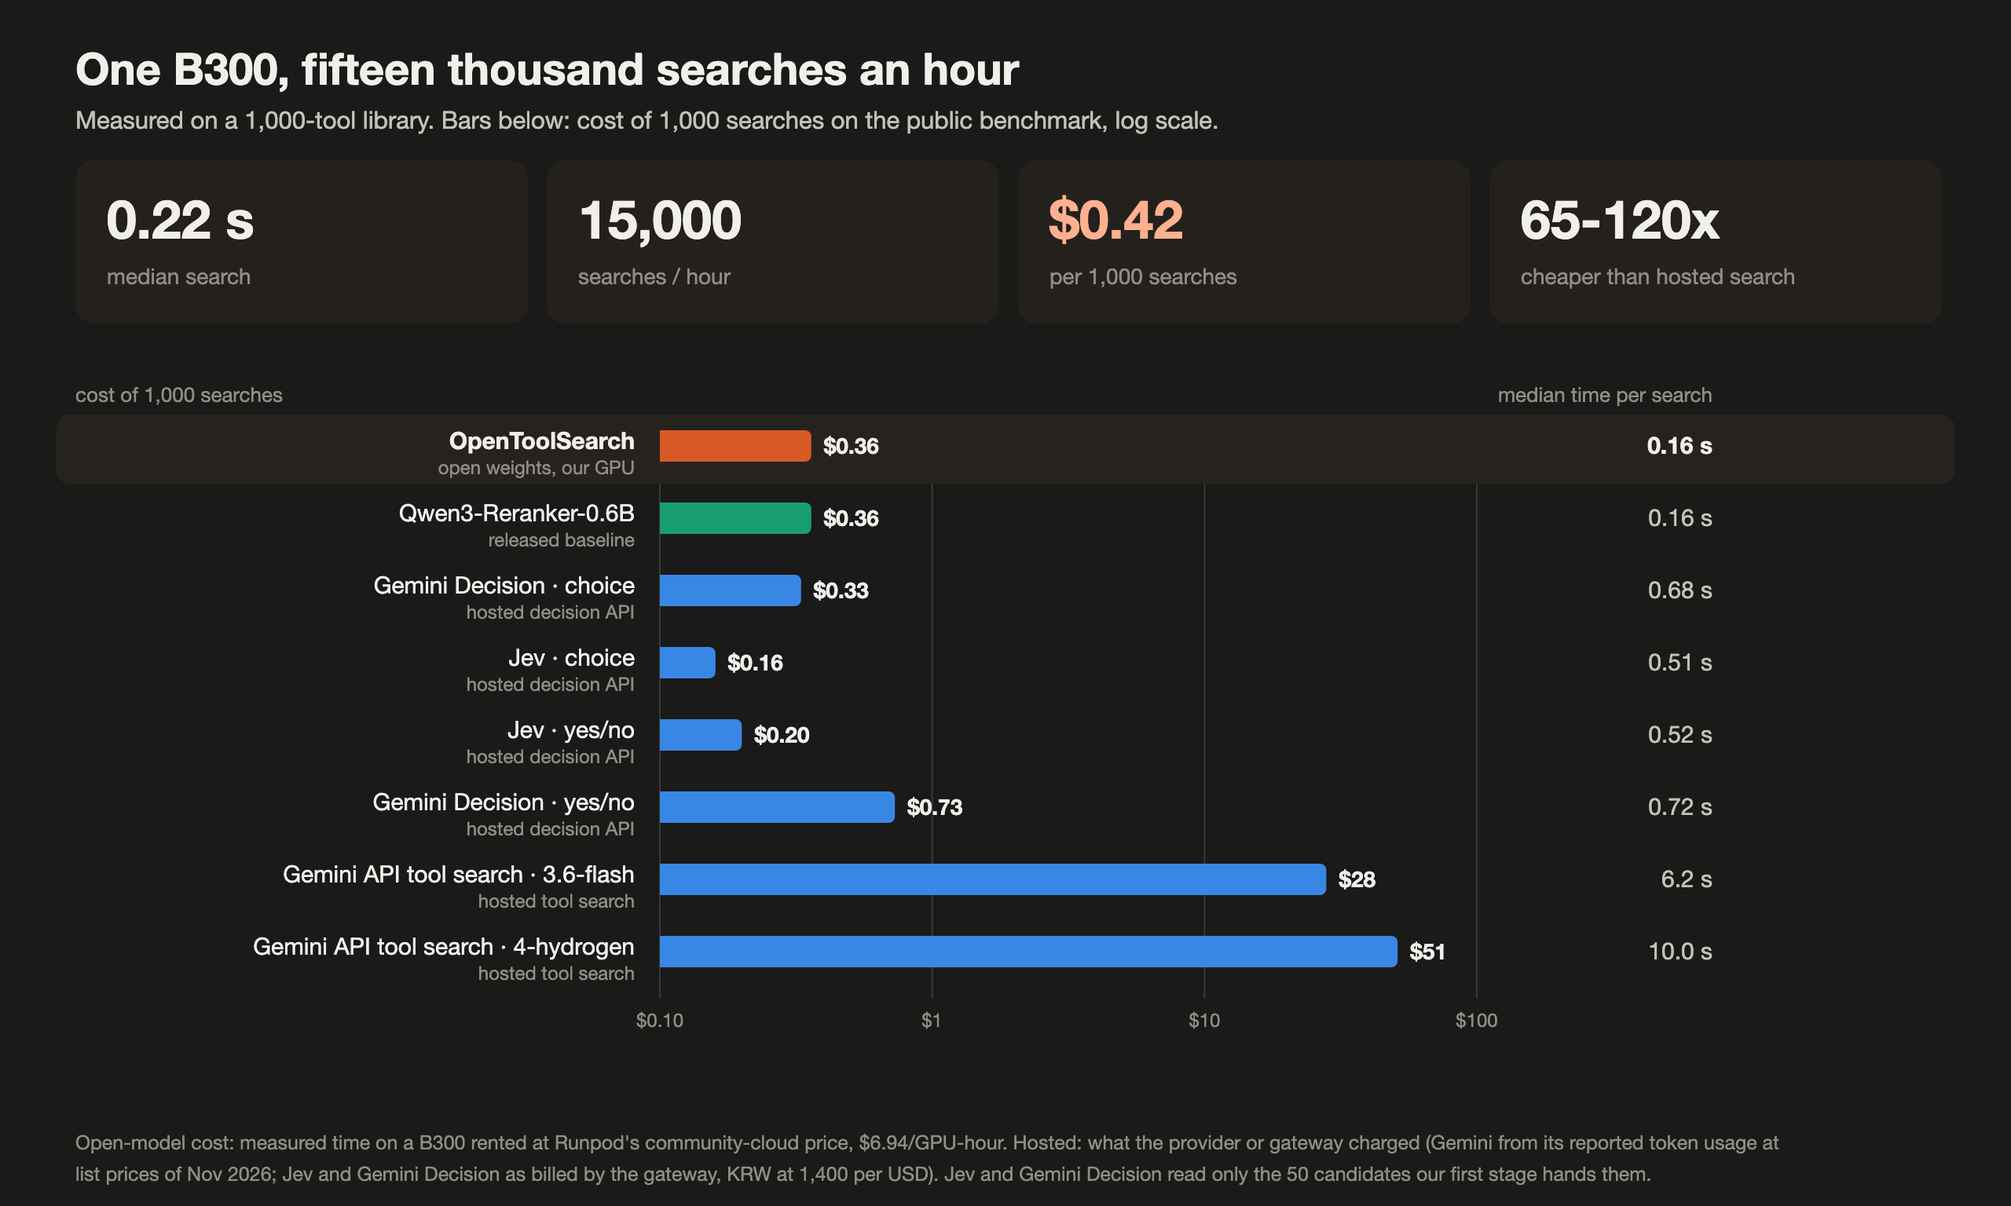
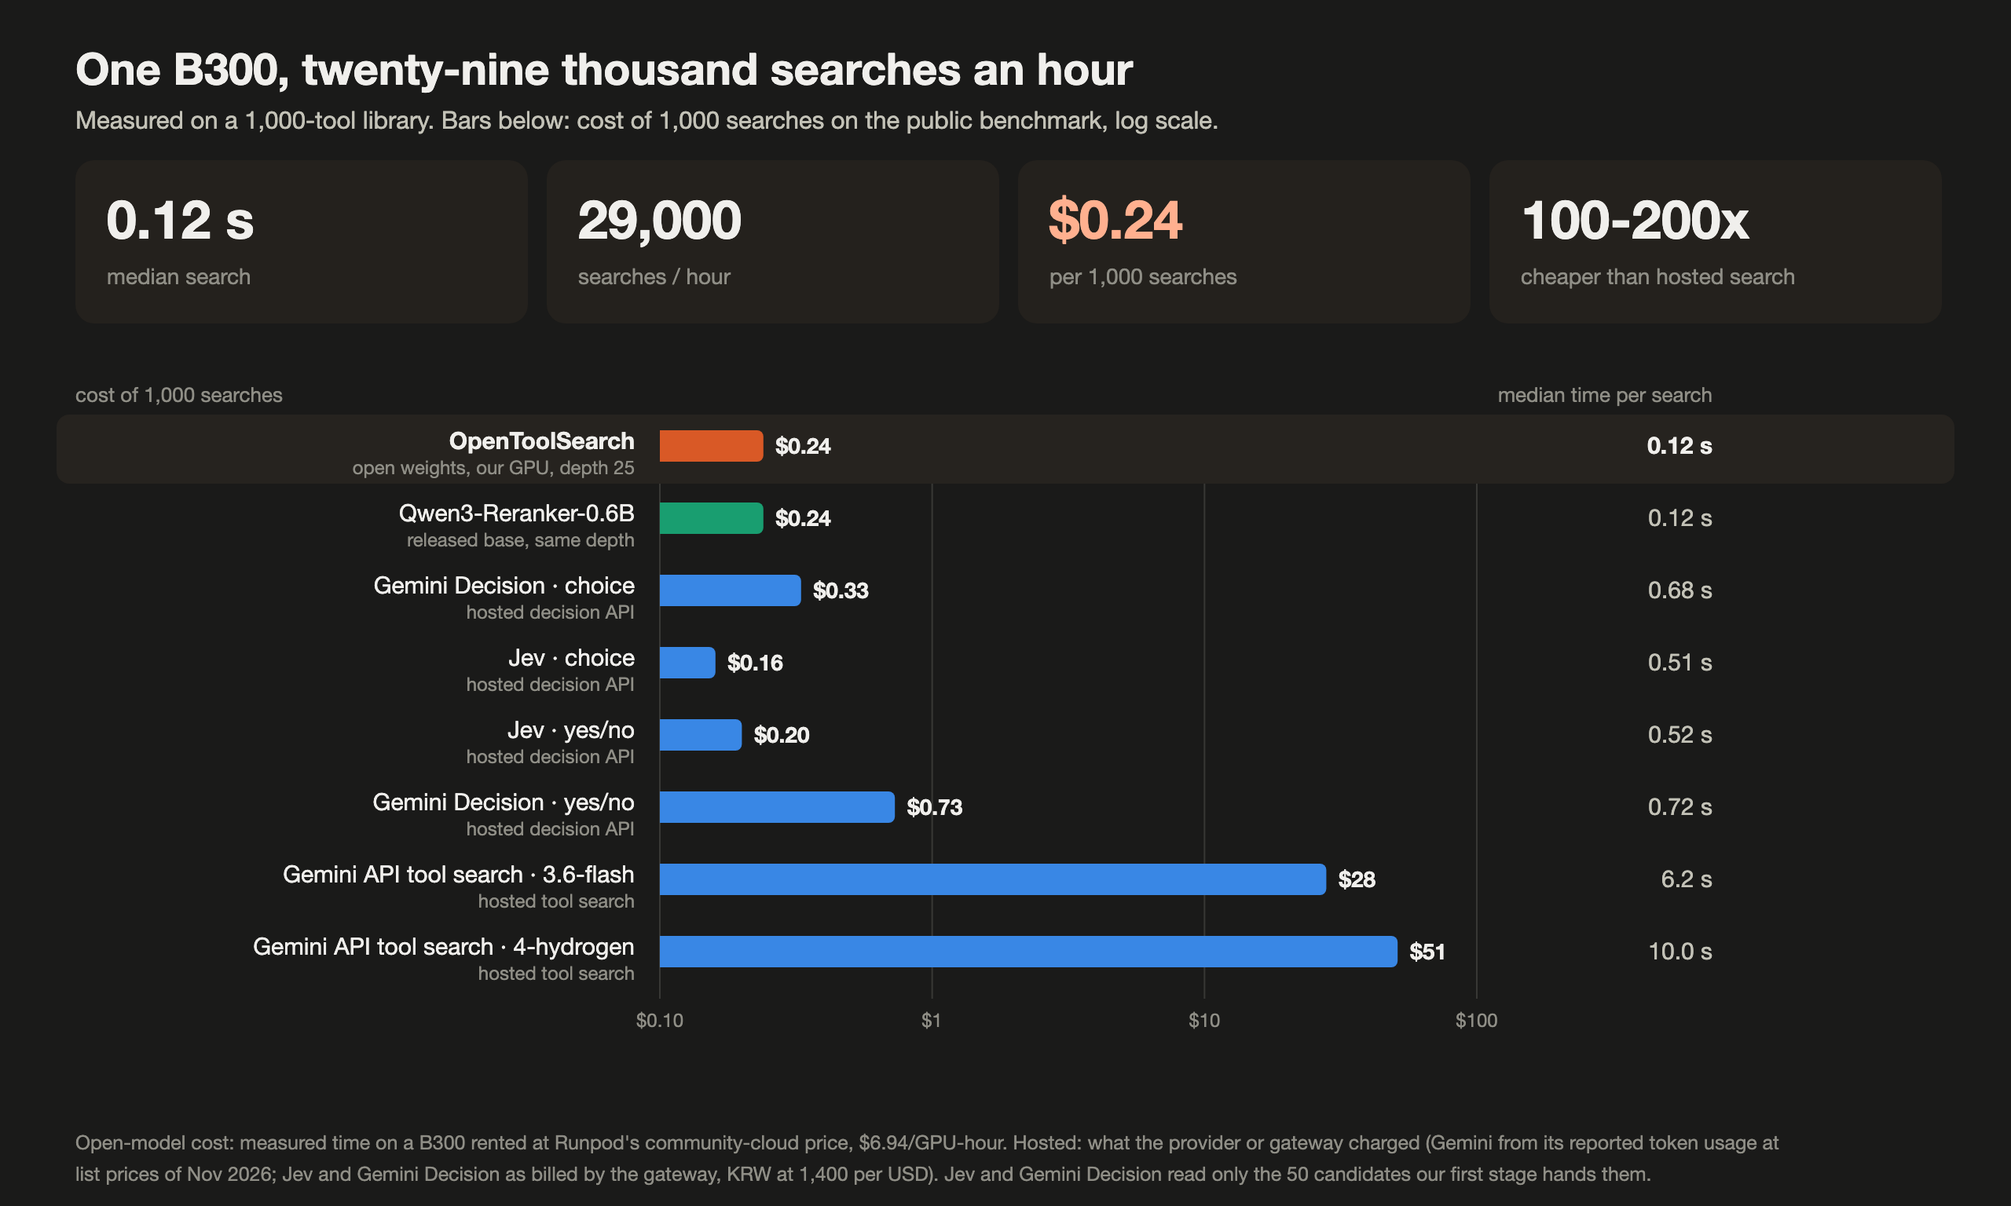
Default config: rerank depth 25, fusion 0.5 (chosen on two benchmarks); docs, figures and library defaults updated

diff --git a/scripts/make_scale_figure.py b/scripts/make_scale_figure.py
@@ -25,26 +25,26 @@ body += t(x0 + w / 2, y0 + h + 44, "searches an hour on one B300 (log scale)", 1
 body += t(48, y0 - 6, "public-benchmark nDCG@10", 12.5, MUTED)
 body += f'<rect x="860" y="130" width="380" height="520" rx="12" fill="#22201d"/>'
 body += t(884, 164, "Rerank depth", 15, INK, weight=700) + t(884, 190, "candidates scored per search", 12.5, MUTED)
-rows = [(d, lab) for d, lab in ((0, "none (embedder only)"), (5, "5"), (10, "10"), (25, "25"), (50, "50 (default)"))]
+rows = [(d, lab) for d, lab in ((0, "none (embedder only)"), (10, "10"), (25, "25 (default)"), (50, "50"))]
 body += t(904, 222, "nDCG@10 (public)", 12, MUTED) + t(1010, 222, "per search", 12, MUTED) + t(1100, 222, "/ hour", 12, MUTED) + t(1190, 222, "/ 1,000", 12, MUTED)
 for i, (d, lab) in enumerate(rows):
     r = D["embedder_only"] if d == 0 else next(x for x in D["rows"] if x["rerank_depth"] == d)
     yy = 250 + i * 70
     body += f'<rect x="884" y="{yy - 18}" width="12" height="12" rx="3" fill="{HUE[str(d)]}"/>'
-    body += t(904, yy - 6, lab, 15, INK, weight=700 if d == 50 else 400)
+    body += t(904, yy - 6, lab, 15, INK, weight=700 if d == 25 else 400)
     body += t(904, yy + 14, f'{r["quality_public"]:.1f}', 13, INK2) + t(1010, yy + 14, f'{r["ms_per_search"]:.0f} ms', 13, INK2) + t(1100, yy + 14, f'{r["searches_per_hour"]:,}', 13, INK2) + t(1190, yy + 14, f'${r["usd_per_1k_our_pod"]:.3f}', 13, INK2)
 for p in pts:
     cx, cy = X(p["searches_per_hour"]), Y(p["quality_public"])
     d = str(p["rerank_depth"])
     body += f'<circle cx="{cx:.1f}" cy="{cy:.1f}" r="12" fill="{HUE[d]}" stroke="{BG}" stroke-width="3"/>'
-labels = {0: (-16, 34, "end"), 5: (18, -10, "start"), 10: (18, 8, "start"), 25: (18, 34, "start"), 50: (-20, -16, "end")}
+labels = {0: (-16, 34, "end"), 5: (18, -10, "start"), 10: (18, -30, "start"), 25: (18, 34, "start"), 50: (-20, -16, "end")}
 for p in pts:
     cx, cy = X(p["searches_per_hour"]), Y(p["quality_public"])
     dx, dy, anc = labels[p["rerank_depth"]]
-    lab = {0: "embedder only", 5: "rerank 5", 10: "rerank 10", 25: "rerank 25", 50: "rerank 50 (default)"}[p["rerank_depth"]]
-    body += t(cx + dx, cy + dy, lab, 14.5, INK, anc, 700 if p["rerank_depth"] == 50 else 500)
+    lab = {0: "embedder only", 5: "rerank 5", 10: "rerank 10", 25: "rerank 25 (default)", 50: "rerank 50"}[p["rerank_depth"]]
+    body += t(cx + dx, cy + dy, lab, 14.5, INK, anc, 700 if p["rerank_depth"] == 25 else 500)
     body += t(cx + dx, cy + dy + 18, f'{p["searches_per_hour"]:,}/h · {p["ms_per_search"]:.0f} ms', 12.5, MUTED, anc)
-body += t(48, H - 40, "Depth 25 loses 0.2 nDCG@10 against 50 and doubles throughput to 29,000 searches an hour. Measurements: 200 requests, waves of 8, one B300; quality recomputed from the stored per-question scores.", 12.5, MUTED)
+body += t(48, H - 40, "Depth 25 is the default: 0.2 nDCG@10 below depth 50, double the throughput at 29,000 searches an hour. Measurements: 200 requests, waves of 8, one B300; quality recomputed from the stored per-question scores.", 12.5, MUTED)
 svg = f'<svg xmlns="http://www.w3.org/2000/svg" width="{W}" height="{H}" viewBox="0 0 {W} {H}" font-family="{FONT}"><rect width="{W}" height="{H}" fill="{BG}"/>{body}</svg>'
 html = os.path.join(ROOT, "data", "img", "scale.html"); open(html, "w").write(f'<!doctype html><html><body style="margin:0;background:{BG}">{svg}</body></html>')
 out = os.path.join(ROOT, "assets", "scale.png")

diff --git a/scripts/make_economics_figure.py b/scripts/make_economics_figure.py
@@ -9,8 +9,8 @@ COL = {"ots": "#d95926", "api": "#3987e5", "base": "#199e70"}
 FONT = "-apple-system,SF Pro Text,Helvetica Neue,Arial,sans-serif"
 CHROME = "/Applications/Google Chrome.app/Contents/MacOS/Google Chrome"
 usd = lambda v: "$6.94" if v == 6.94 else ""
-rows = [("OpenToolSearch", "ots", 0.36, "0.16 s", "open weights, our GPU"),
-        ("Qwen3-Reranker-0.6B", "base", 0.36, "0.16 s", "released baseline"),
+rows = [("OpenToolSearch", "ots", 0.24, "0.12 s", "open weights, our GPU, depth 25"),
+        ("Qwen3-Reranker-0.6B", "base", 0.24, "0.12 s", "released base, same depth"),
         ("Gemini Decision · choice", "api", P["Gemini Decision (single choice)"]["usd_per_1k"], f'{P["Gemini Decision (single choice)"]["latency_p50"]:.2f} s', "hosted decision API"),
         ("Jev · choice", "api", P["Jev (single choice)"]["usd_per_1k"], f'{P["Jev (single choice)"]["latency_p50"]:.2f} s', "hosted decision API"),
         ("Jev · yes/no", "api", P["Jev (yes/no per tool)"]["usd_per_1k"], f'{P["Jev (yes/no per tool)"]["latency_p50"]:.2f} s', "hosted decision API"),
@@ -20,9 +20,9 @@ rows = [("OpenToolSearch", "ots", 0.36, "0.16 s", "open weights, our GPU"),
 W, H = 1280, 768
 t = lambda x, y, s, size=14, fill=INK2, anchor="start", weight=400: \
     f'<text x="{x:.1f}" y="{y:.1f}" fill="{fill}" font-size="{size}" text-anchor="{anchor}" font-weight="{weight}">{s}</text>'
-body = t(48, 54, "One B300, fifteen thousand searches an hour", 28, INK, weight=700)
+body = t(48, 54, "One B300, twenty-nine thousand searches an hour", 28, INK, weight=700)
 body += t(48, 82, "Measured on a 1,000-tool library. Bars below: cost of 1,000 searches on the public benchmark, log scale.", 15.5, INK2)
-hero = [("0.22 s", "median search"), ("15,000", "searches / hour"), ("$0.42", "per 1,000 searches"), ("65-120x", "cheaper than hosted search")]
+hero = [("0.12 s", "median search"), ("29,000", "searches / hour"), ("$0.24", "per 1,000 searches"), ("100-200x", "cheaper than hosted search")]
 hx = 48
 for big, small in hero:
     body += f'<rect x="{hx}" y="102" width="288" height="104" rx="12" fill="#24211d"/>'

diff --git a/opentoolsearch/index.py b/opentoolsearch/index.py
@@ -50,12 +50,14 @@ class ToolIndex:
               prompts (e.g. Nemotron-3-Embed, opentoolsearch-embed) get them applied; others get
               the "Instruct: ...\nQuery: ..." format.
     reranker  optional path/name of a opentoolsearch reranker (Qwen3-Reranker format). When set,
-              the top `rerank_top` hits are re-scored and the two scores are fused.
+              the top `rerank_top` hits (default 25) are re-scored and the two scores are fused
+              with weight `fuse` (default 0.5). Depth and fusion were chosen on two benchmarks:
+              depth 25 is 0.2 nDCG@10 below 50 on ToolRet per-source and twice as fast.
     """
 
     def __init__(self, model: str = DEFAULT_MODEL, reranker: Optional[str] = None,
                  device: Optional[str] = None, instruction: str = DEFAULT_INSTRUCTION,
-                 max_doc_tokens: int = 1024, rerank_top: int = 30, fuse: float = 1.0, encoder=None):
+                 max_doc_tokens: int = 1024, rerank_top: int = 25, fuse: float = 0.5, encoder=None):
         if encoder is None:
             from sentence_transformers import SentenceTransformer
             encoder = SentenceTransformer(model, device=device)

diff --git a/README.md b/README.md
@@ -17,9 +17,9 @@ tools - function declarations, MCP servers - and let it load only the few a requ
 Model APIs now ship this as a hosted feature. OpenToolSearch is the same idea with open
 weights that you run yourself, next to any model that can call a function:
 
-- **15,000 searches an hour on one GPU at full quality** - 29,000 at rerank depth 25 for 0.2
-  nDCG points less, 75,000 at depth 10 - at **$0.42-0.48 per 1,000 searches**,
-  60 to 120 times cheaper than hosted tool search (Gemini API tool search: $28-51 per 1,000).
+- **29,000 searches an hour on one GPU** - 75,000 on the faster setting, two million on the
+  embedder alone - at **$0.24 per 1,000 searches**, 100 to 200 times cheaper than hosted tool
+  search (Gemini API tool search: $28-51 per 1,000) and about 0.12 s per search.
 - **Open weights, your hardware.** No per-search fee, and the tool library never leaves your
   machines. One B300 or an H100 is enough.
 - **Competitive, not best, on quality.** Between Gemini API tool search's flash and hydrogen
@@ -32,7 +32,7 @@ weights that you run yourself, next to any model that can call a function:
 
 Built by [AI3 Inc.](https://ai3.kr) · Apache-2.0
 
-## One GPU, fifteen thousand searches an hour - or a hundred thousand
+## One GPU, twenty-nine thousand searches an hour
 
 ![How fast can one GPU search](assets/scale.png)
 
@@ -41,20 +41,21 @@ B300 over a 1,000-tool library:
 
 | Candidates reranked | nDCG@10 (public bench) | Per search | Searches an hour | $ per 1,000 (our pod) |
 |---|---|---|---|---|
-| none - embedder only | 62.9 | 1.7 ms | **2,088,000** | $0.003 |
-| 5 | 60.9 | 29 ms | 123,500 | $0.06 |
+| none - embedder only | 62.9 | 1.7 ms | 2,088,000 | $0.003 |
 | 10 | 67.1 | 48 ms | 75,600 | $0.09 |
-| 25 | 70.1 | 124 ms | 29,000 | $0.24 |
-| 50 (our default) | **70.3** | 241 ms | 14,900 | $0.48 |
+| **25 (our default)** | **70.1** | 124 ms | **29,000** | **$0.24** |
+| 50 | 70.3 | 241 ms | 14,900 | $0.48 |
 
-- **One B300 does 15,000 searches an hour at full quality, 29,000 at rerank depth 25 for 0.2
-  points less, and 75,000 if you rerank only the top 10.**
-- A big consumer app does not need that many: at 20 million chat turns a day and 0.3 tool
-  searches each, that is about 2,500 searches a second - roughly 200 B300s at full quality, or
-  20 for the embedder-only path that is still better than Gemini API tool search's 67.0.
-- **Against hosted tool search, cost is not close:** $0.48 per 1,000 at full quality, $0.003 on
-  the embedder, against Gemini API tool search's $28-51. On Runpod's community-cloud price
-  ($6.94/h) it is $0.41.
+- **The default is rerank depth 25**: two and a half times the throughput of depth 50 for 0.2
+  nDCG@10 - inside the noise of this benchmark. Depth 10 is another 2.6 times faster for 3
+  points.
+- **One B300 does 29,000 searches an hour at full quality, 75,000 at depth 10, two million on the
+  embedder alone.** A consumer app at 20 million turns a day with 0.3 tool searches each needs
+  about 2,500 searches a second - roughly 100 B300s at the default depth.
+- **Cost:** $0.24 per 1,000 searches at the default depth, $0.42-0.48 at depth 50, against
+  Gemini API tool search's $28-51.
+- The fusion weight that combines the two scores is 0.5 in the default (70.45 public / 86.77
+  own set, against 70.08 / 87.43 at 0.25); the difference is inside the noise either way.
 - Hosted decision models (Jev, Gemini Decision) are cheap and fast too, but they only rank the
   candidates we hand them and return a list, not a service next to your data.
 
@@ -91,28 +92,30 @@ picked with our own embedder, and the published weights saw training rows from t
 |---|---|---|---|---|---|---|
 | Gemini Decision — single choice | hosted API | 78.2 | 87.2 | 91.2 | $0.33 | 0.68 s |
 | Jev — single choice | hosted API | 77.3 | 85.4 | 89.1 | $0.16 | 0.51 s |
-| Gemini API tool search — gemini-4-hydrogen | hosted API | 73.5 | 79.4 | 88.3 | $51 | 10.0 s |
+| Gemini API tool search — gemini-4-hydrogen | hosted API | 73.5 | 79.4 | 88.3 | $51.20 | 10.03 s |
 | Gemini Decision — yes/no per tool | hosted API | 71.0 | 85.4 | 85.2 | $0.73 | 0.72 s |
 | Jev — yes/no per tool | hosted API | 70.9 | 84.8 | 86.1 | $0.20 | 0.52 s |
-| **OpenToolSearch** | **open weights** | **70.3** | 82.4 | 87.9 | $0.36 | 0.16 s |
-| Qwen3-Reranker-0.6B as released | open baseline | 69.9 | 81.7 | 87.3 | $0.36 | 0.16 s |
-| Gemini API tool search — gemini-3.6-flash | hosted API | 67.0 | 71.6 | 88.2 | $28 | 6.24 s |
+| **OpenToolSearch — default (depth 25)** | open weights | **70.5** | 82.1 | 86.8 | $0.24 | 0.12 s |
+| OpenToolSearch — depth 50 | open weights | 70.3 | 82.4 | 87.9 | $0.47 | 0.22 s |
+| Qwen3-Reranker-0.6B as released | open baseline | 69.9 | 81.7 | 87.3 | $0.47 | 0.22 s |
+| Gemini API tool search — gemini-3.6-flash | hosted API | 67.0 | 71.6 | 88.2 | $28.01 | 6.24 s |
 | Nemotron-3-Embed-1B alone | open baseline | 62.9 | 76.6 | 78.4 | — | — |
 
 What the numbers say, plainly:
 
-- **Quality: in the middle.** On the public benchmark OpenToolSearch scores 70.3 - above
-  Gemini API tool search with gemini-3.6-flash (67.0), below it with gemini-4-hydrogen (73.5),
-  and 7-8 points below Jev and Gemini Decision asked to pick one tool (77.3, 78.2). On our own
-  set the two decision models lead (91.2, 89.1) and OpenToolSearch sits at 87.9.
-- **Speed: first, by a wide margin.** 0.16 s per search, against 0.5-0.7 s for the hosted
-  decision models and 6-10 s for Gemini API tool search.
-- **Cost: about like the hosted decision models, a small fraction of Gemini API tool search** -
-  $0.36 of GPU time per 1,000 searches against $28-51. Gemini has the model read the whole
-  catalogue on every search.
-- **Its fine-tuning adds little here.** The released Qwen3 reranker scores 69.9 on the same
-  first stage. The gain shows on the full ToolRet corpus below (51.9 to 56.0 on its own),
-  where an instruction accompanies each question.
+- **Default settings are depth 25 and fusion 0.5**: 70.5 on the public benchmark (depth 50
+  with the same fusion: 70.8) at 29,000 searches an hour and $0.24 per 1,000 - two and a half
+  times the throughput and half the cost of depth 50 for about 0.3 nDCG points, inside the
+  noise of a 769-question test.
+- **Quality: in the middle.** OpenToolSearch at its default (70.5) sits above Gemini API tool
+  search with gemini-3.6-flash (67.0), just below it with gemini-4-hydrogen (73.5), and 7 points
+  below Jev and Gemini Decision asked to pick one tool (77.3, 78.2).
+- **Speed and cost: first, by a wide margin.** 0.12 s per search and $0.24 per 1,000, against
+  0.5-0.7 s / $0.16-0.73 for the hosted decision models and 6-10 s / $28-51 for Gemini API tool
+  search.
+- **Fine-tuning adds little here.** The released Qwen3 reranker scores 69.9 on the same first
+  stage at the same depth. The gain shows on the full ToolRet corpus below (51.9 to 56.0 on its
+  own), where an instruction accompanies each question.
 - **It is the only row you can run yourself** - open weights, no per-search fee, and the tool
   library never leaves your machines.
 
@@ -232,6 +235,7 @@ from opentoolsearch import ToolIndex
 index = ToolIndex(model="nvidia/Nemotron-3-Embed-1B-BF16",
                   reranker="ai3inc/opentoolsearch-rerank-0.6b")       # reranker is optional
 index.add(tools)                       # list of tool / function declarations (dicts)
+# defaults: rerank_top=25, fuse=0.5  (depth 25 ≈ depth 50 in quality, twice the throughput)
 
 hits = index.search("refund the customer's last order", k=5)
 for h in hits:

diff --git a/hf/opentoolsearch-rerank-0.6b/README.md b/hf/opentoolsearch-rerank-0.6b/README.md
@@ -93,8 +93,9 @@ Per category at top 100: web 52.01, code 61.09, customized 62.01.
 ![How fast can one GPU search](https://raw.githubusercontent.com/ai3inc/opentoolsearch/main/assets/scale.png)
 
 Rerank depth is the dial. On one B300 over 1,000 tools: depth 50 gives 70.3 nDCG@10 at 14,900
-searches an hour and $0.48 per 1,000; depth 25 gives 70.1 at 29,000 and $0.24; depth 10 gives
-67.1 at 75,600 and $0.09; the embedder alone gives 62.9 at 2.1 million an hour for $0.003.
+searches an hour and $0.48 per 1,000; **depth 25 is the library default** - 70.1 at 29,000 an
+hour and $0.24; depth 10 gives 67.1 at 75,600 and $0.09; the embedder alone gives 62.9 at 2.1
+million an hour for $0.003.
 A large consumer app with 20 million turns a day and 0.3 tool searches each needs about 2,500
 searches a second, which is roughly 200 GPUs at full quality.
 
@@ -113,12 +114,13 @@ model is the fastest of them all by a wide margin.
 |---|---|---|---|---|---|---|
 | Gemini Decision — single choice | hosted API | 78.2 | 87.2 | 91.2 | $0.33 | 0.68 s |
 | Jev — single choice | hosted API | 77.3 | 85.4 | 89.1 | $0.16 | 0.51 s |
-| Gemini API tool search — gemini-4-hydrogen | hosted API | 73.5 | 79.4 | 88.3 | $51 | 10.0 s |
+| Gemini API tool search — gemini-4-hydrogen | hosted API | 73.5 | 79.4 | 88.3 | $51.20 | 10.03 s |
 | Gemini Decision — yes/no per tool | hosted API | 71.0 | 85.4 | 85.2 | $0.73 | 0.72 s |
 | Jev — yes/no per tool | hosted API | 70.9 | 84.8 | 86.1 | $0.20 | 0.52 s |
-| **OpenToolSearch** | **open weights** | **70.3** | 82.4 | 87.9 | $0.36 | 0.16 s |
-| Qwen3-Reranker-0.6B as released | open baseline | 69.9 | 81.7 | 87.3 | $0.36 | 0.16 s |
-| Gemini API tool search — gemini-3.6-flash | hosted API | 67.0 | 71.6 | 88.2 | $28 | 6.24 s |
+| **OpenToolSearch — default (depth 25)** | open weights | **70.5** | 82.1 | 86.8 | $0.24 | 0.12 s |
+| OpenToolSearch — depth 50 | open weights | 70.3 | 82.4 | 87.9 | $0.47 | 0.22 s |
+| Qwen3-Reranker-0.6B as released | open baseline | 69.9 | 81.7 | 87.3 | $0.47 | 0.22 s |
+| Gemini API tool search — gemini-3.6-flash | hosted API | 67.0 | 71.6 | 88.2 | $28.01 | 6.24 s |
 | Nemotron-3-Embed-1B alone | open baseline | 62.9 | 76.6 | 78.4 | — | — |
 
 

diff --git a/hf/opentoolsearch-rerank-0.6b/LEDGER.md b/hf/opentoolsearch-rerank-0.6b/LEDGER.md
@@ -244,3 +244,18 @@ per-question scores at fusion weight 0.25; throughput measured.
 Time is linear in rerank depth: the cross-encoder runs once per candidate and nothing else
 costs measurable time. Depth 25 is the sweet spot - 0.2 nDCG@10 below 50 and twice the
 throughput. `results/scale_curve.json`, `results/quality_vs_depth.json`, `scripts/v3_scale_curve.py`.
+
+# Default configuration chosen (2026-11-21)
+
+Fusion weight x rerank depth, nDCG@10 (stored per-question scores, both benchmarks):
+
+| Depth | Public w=0 / .25 / .5 / 1 | Own set w=0 / .25 / .5 / 1 | Searches/hour | $/1,000 |
+|---|---|---|---|---|
+| 10 | 66.91 / 67.11 / 67.14 / 66.51 | 85.18 / 84.50 / 84.27 / 82.38 | 75,623 | 0.094 |
+| 25 | 69.24 / 70.08 / 70.45 / 69.55 | 87.86 / 87.43 / 86.77 / 84.39 | 29,032 | 0.244 |
+| 50 | 68.94 / 70.26 / 70.78 / 69.88 | 87.65 / 87.93 / 87.23 / 85.29 | 14,917 | 0.475 |
+
+Chosen: **depth 25, fusion 0.5** - the public benchmark's best value at that depth (70.45), the
+own set loses 0.7 (87.43 -> 86.77), and the throughput doubles. Depth 25 with fusion 0.5 is now
+the library default (`ToolIndex(rerank_top=25, fuse=0.5)`); the evaluation scripts keep the
+benchmark protocols (depth 50 / top 100) they were run with. `results/default_config.json`.

diff --git a/results/LEDGER.md b/results/LEDGER.md
@@ -244,3 +244,18 @@ per-question scores at fusion weight 0.25; throughput measured.
 Time is linear in rerank depth: the cross-encoder runs once per candidate and nothing else
 costs measurable time. Depth 25 is the sweet spot - 0.2 nDCG@10 below 50 and twice the
 throughput. `results/scale_curve.json`, `results/quality_vs_depth.json`, `scripts/v3_scale_curve.py`.
+
+# Default configuration chosen (2026-11-21)
+
+Fusion weight x rerank depth, nDCG@10 (stored per-question scores, both benchmarks):
+
+| Depth | Public w=0 / .25 / .5 / 1 | Own set w=0 / .25 / .5 / 1 | Searches/hour | $/1,000 |
+|---|---|---|---|---|
+| 10 | 66.91 / 67.11 / 67.14 / 66.51 | 85.18 / 84.50 / 84.27 / 82.38 | 75,623 | 0.094 |
+| 25 | 69.24 / 70.08 / 70.45 / 69.55 | 87.86 / 87.43 / 86.77 / 84.39 | 29,032 | 0.244 |
+| 50 | 68.94 / 70.26 / 70.78 / 69.88 | 87.65 / 87.93 / 87.23 / 85.29 | 14,917 | 0.475 |
+
+Chosen: **depth 25, fusion 0.5** - the public benchmark's best value at that depth (70.45), the
+own set loses 0.7 (87.43 -> 86.77), and the throughput doubles. Depth 25 with fusion 0.5 is now
+the library default (`ToolIndex(rerank_top=25, fuse=0.5)`); the evaluation scripts keep the
+benchmark protocols (depth 50 / top 100) they were run with. `results/default_config.json`.
